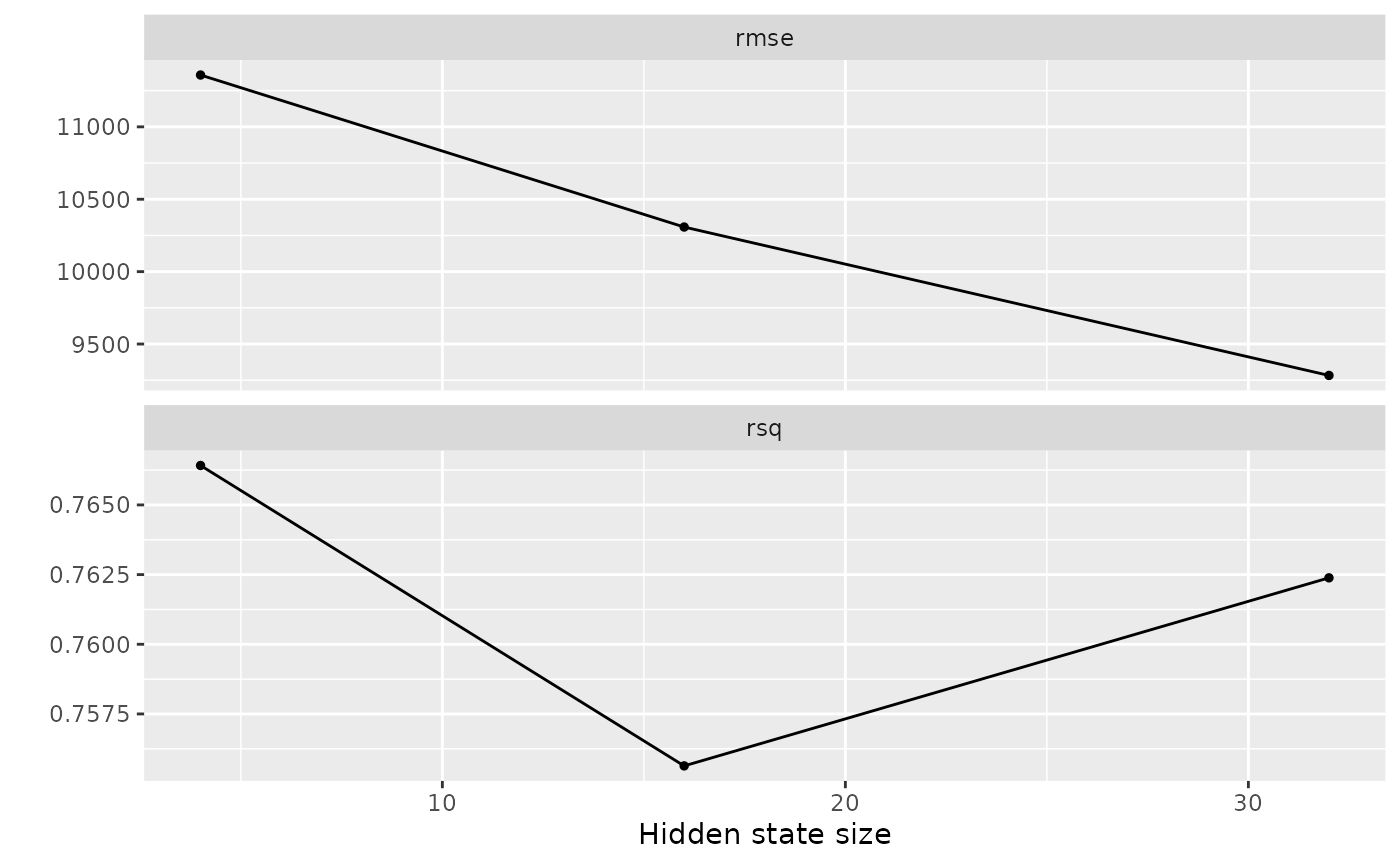
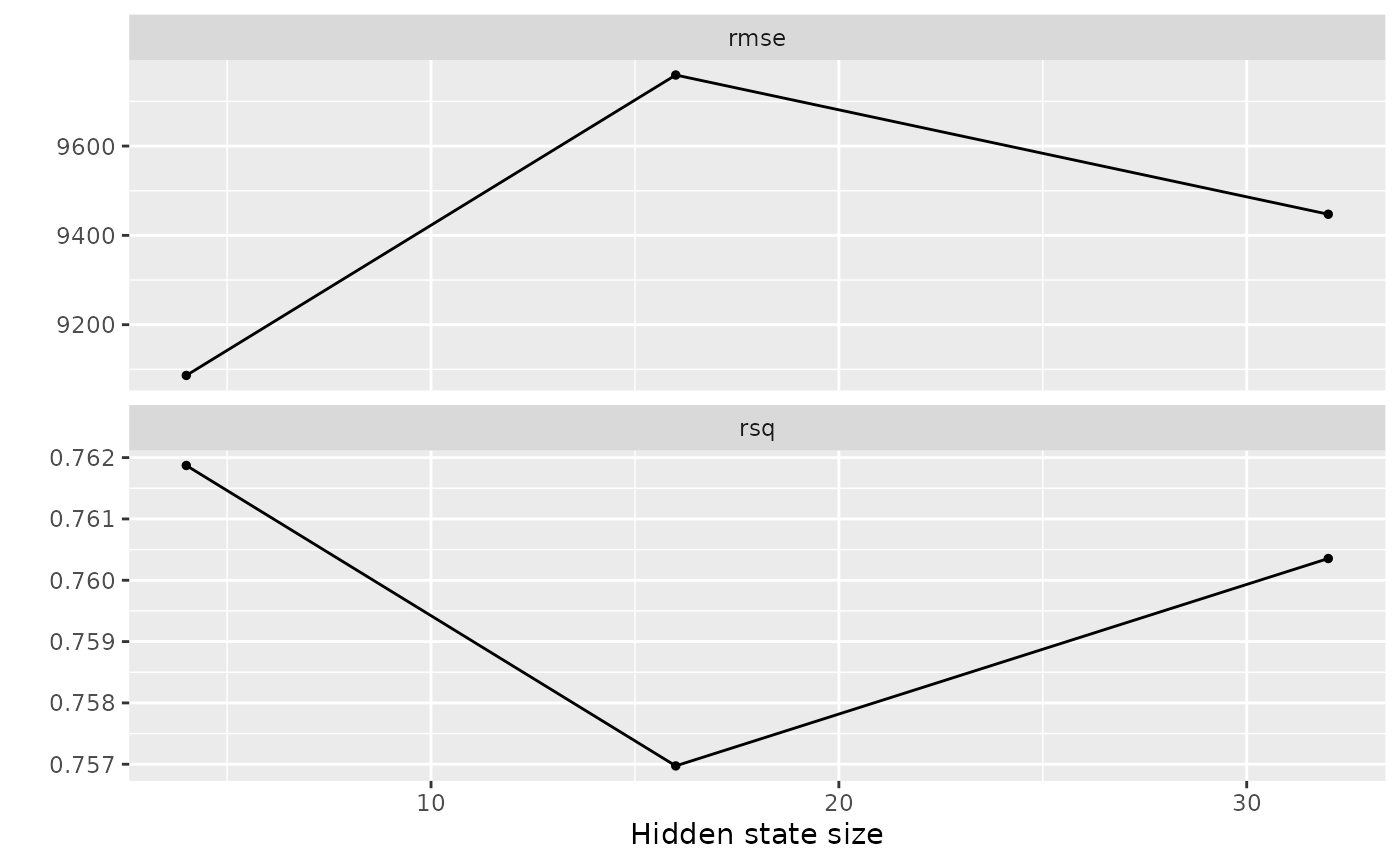
Deploying to gh-pages from @ mlverse/tft@ce8b711458145f856508351297f29762bbba8727 🚀

diff --git a/articles/Getting-started.html b/articles/Getting-started.html
@@ -293,10 +293,10 @@
 <span class="va">results</span> <span class="op">&lt;-</span> <span class="fu">fit_resamples</span><span class="op">(</span><span class="va">model</span>, <span class="va">test_splits</span><span class="op">)</span>
 <span class="fu">collect_metrics</span><span class="op">(</span><span class="va">results</span><span class="op">)</span>
 <span class="co">#&gt; <span style="color: #949494;"># A tibble: 2 × 6</span></span>
-<span class="co">#&gt;   .metric .estimator     mean     n   std_err .config             </span>
-<span class="co">#&gt;   <span style="color: #949494; font-style: italic;">&lt;chr&gt;</span>   <span style="color: #949494; font-style: italic;">&lt;chr&gt;</span>         <span style="color: #949494; font-style: italic;">&lt;dbl&gt;</span> <span style="color: #949494; font-style: italic;">&lt;int&gt;</span>     <span style="color: #949494; font-style: italic;">&lt;dbl&gt;</span> <span style="color: #949494; font-style: italic;">&lt;chr&gt;</span>               </span>
-<span class="co">#&gt; <span style="color: #BCBCBC;">1</span> rmse    standard   <span style="text-decoration: underline;">3</span>579.        4 437.      Preprocessor1_Model1</span>
-<span class="co">#&gt; <span style="color: #BCBCBC;">2</span> rsq     standard      0.985     4   0.004<span style="text-decoration: underline;">76</span> Preprocessor1_Model1</span></code></pre></div>
+<span class="co">#&gt;   .metric .estimator     mean     n  std_err .config             </span>
+<span class="co">#&gt;   <span style="color: #949494; font-style: italic;">&lt;chr&gt;</span>   <span style="color: #949494; font-style: italic;">&lt;chr&gt;</span>         <span style="color: #949494; font-style: italic;">&lt;dbl&gt;</span> <span style="color: #949494; font-style: italic;">&lt;int&gt;</span>    <span style="color: #949494; font-style: italic;">&lt;dbl&gt;</span> <span style="color: #949494; font-style: italic;">&lt;chr&gt;</span>               </span>
+<span class="co">#&gt; <span style="color: #BCBCBC;">1</span> rmse    standard   <span style="text-decoration: underline;">3</span>991.        4 839.     Preprocessor1_Model1</span>
+<span class="co">#&gt; <span style="color: #BCBCBC;">2</span> rsq     standard      0.972     4   0.013<span style="text-decoration: underline;">0</span> Preprocessor1_Model1</span></code></pre></div>
 <p>To obtain predictions for future observations, first we need to load a data.frame that includes known predictors like the <code>IsHoliday</code> variable for all time steps in the future data frame. Then we can call <code>forecast</code> or <code>predict</code> to obtain the predictions for the future data.</p>
 <p>Note that <code>forecast</code> or <code>predict</code> currently can only predict for <code>horizon</code> time steps ahead. And don’t provide a away for doing rolling forecasts.</p>
 <div class="sourceCode" id="cb11"><pre class="downlit sourceCode r">
@@ -310,22 +310,22 @@
 <span class="co">#&gt; <span style="color: #949494;"># A tibble: 16 × 3</span></span>
 <span class="co">#&gt;    .pred_lower  .pred .pred_upper</span>
 <span class="co">#&gt;          <span style="color: #949494; font-style: italic;">&lt;dbl&gt;</span>  <span style="color: #949494; font-style: italic;">&lt;dbl&gt;</span>       <span style="color: #949494; font-style: italic;">&lt;dbl&gt;</span></span>
-<span class="co">#&gt; <span style="color: #BCBCBC;"> 1</span>      <span style="text-decoration: underline;">13</span>292. <span style="text-decoration: underline;">19</span>869.      <span style="text-decoration: underline;">29</span>107.</span>
-<span class="co">#&gt; <span style="color: #BCBCBC;"> 2</span>      <span style="text-decoration: underline;">13</span>252. <span style="text-decoration: underline;">19</span>862.      <span style="text-decoration: underline;">29</span>201.</span>
-<span class="co">#&gt; <span style="color: #BCBCBC;"> 3</span>      <span style="text-decoration: underline;">13</span>245. <span style="text-decoration: underline;">19</span>869.      <span style="text-decoration: underline;">29</span>249.</span>
-<span class="co">#&gt; <span style="color: #BCBCBC;"> 4</span>      <span style="text-decoration: underline;">13</span>246. <span style="text-decoration: underline;">19</span>876.      <span style="text-decoration: underline;">29</span>279.</span>
-<span class="co">#&gt; <span style="color: #BCBCBC;"> 5</span>      <span style="text-decoration: underline;">42</span>882. <span style="text-decoration: underline;">45</span>179.      <span style="text-decoration: underline;">48</span>404.</span>
-<span class="co">#&gt; <span style="color: #BCBCBC;"> 6</span>      <span style="text-decoration: underline;">42</span>869. <span style="text-decoration: underline;">45</span>176.      <span style="text-decoration: underline;">48</span>437.</span>
-<span class="co">#&gt; <span style="color: #BCBCBC;"> 7</span>      <span style="text-decoration: underline;">42</span>866. <span style="text-decoration: underline;">45</span>179.      <span style="text-decoration: underline;">48</span>454.</span>
-<span class="co">#&gt; <span style="color: #BCBCBC;"> 8</span>      <span style="text-decoration: underline;">42</span>866. <span style="text-decoration: underline;">45</span>181.      <span style="text-decoration: underline;">48</span>464.</span>
-<span class="co">#&gt; <span style="color: #BCBCBC;"> 9</span>      <span style="text-decoration: underline;">17</span>377. <span style="text-decoration: underline;">26</span>935.      <span style="text-decoration: underline;">40</span>364.</span>
-<span class="co">#&gt; <span style="color: #BCBCBC;">10</span>      <span style="text-decoration: underline;">17</span>320. <span style="text-decoration: underline;">26</span>925.      <span style="text-decoration: underline;">40</span>500.</span>
-<span class="co">#&gt; <span style="color: #BCBCBC;">11</span>      <span style="text-decoration: underline;">17</span>309. <span style="text-decoration: underline;">26</span>935.      <span style="text-decoration: underline;">40</span>568.</span>
-<span class="co">#&gt; <span style="color: #BCBCBC;">12</span>      <span style="text-decoration: underline;">17</span>310. <span style="text-decoration: underline;">26</span>946.      <span style="text-decoration: underline;">40</span>613.</span>
-<span class="co">#&gt; <span style="color: #BCBCBC;">13</span>      <span style="text-decoration: underline;">61</span>363. <span style="text-decoration: underline;">64</span>608.      <span style="text-decoration: underline;">69</span>168.</span>
-<span class="co">#&gt; <span style="color: #BCBCBC;">14</span>      <span style="text-decoration: underline;">61</span>344. <span style="text-decoration: underline;">64</span>605.      <span style="text-decoration: underline;">69</span>214.</span>
-<span class="co">#&gt; <span style="color: #BCBCBC;">15</span>      <span style="text-decoration: underline;">61</span>340. <span style="text-decoration: underline;">64</span>608.      <span style="text-decoration: underline;">69</span>237.</span>
-<span class="co">#&gt; <span style="color: #BCBCBC;">16</span>      <span style="text-decoration: underline;">61</span>340. <span style="text-decoration: underline;">64</span>612.      <span style="text-decoration: underline;">69</span>252.</span></code></pre></div>
+<span class="co">#&gt; <span style="color: #BCBCBC;"> 1</span>      <span style="text-decoration: underline;">28</span>178. <span style="text-decoration: underline;">25</span>594.      <span style="text-decoration: underline;">16</span>844.</span>
+<span class="co">#&gt; <span style="color: #BCBCBC;"> 2</span>      <span style="text-decoration: underline;">28</span>242. <span style="text-decoration: underline;">25</span>613.      <span style="text-decoration: underline;">16</span>862.</span>
+<span class="co">#&gt; <span style="color: #BCBCBC;"> 3</span>      <span style="text-decoration: underline;">28</span>271. <span style="text-decoration: underline;">25</span>628.      <span style="text-decoration: underline;">16</span>868.</span>
+<span class="co">#&gt; <span style="color: #BCBCBC;"> 4</span>      <span style="text-decoration: underline;">28</span>287. <span style="text-decoration: underline;">25</span>640.      <span style="text-decoration: underline;">16</span>870.</span>
+<span class="co">#&gt; <span style="color: #BCBCBC;"> 5</span>      <span style="text-decoration: underline;">48</span>080. <span style="text-decoration: underline;">47</span>178.      <span style="text-decoration: underline;">44</span>123.</span>
+<span class="co">#&gt; <span style="color: #BCBCBC;"> 6</span>      <span style="text-decoration: underline;">48</span>102. <span style="text-decoration: underline;">47</span>184.      <span style="text-decoration: underline;">44</span>129.</span>
+<span class="co">#&gt; <span style="color: #BCBCBC;"> 7</span>      <span style="text-decoration: underline;">48</span>112. <span style="text-decoration: underline;">47</span>190.      <span style="text-decoration: underline;">44</span>131.</span>
+<span class="co">#&gt; <span style="color: #BCBCBC;"> 8</span>      <span style="text-decoration: underline;">48</span>118. <span style="text-decoration: underline;">47</span>194.      <span style="text-decoration: underline;">44</span>132.</span>
+<span class="co">#&gt; <span style="color: #BCBCBC;"> 9</span>      <span style="text-decoration: underline;">39</span>008. <span style="text-decoration: underline;">35</span>255.      <span style="text-decoration: underline;">22</span>538.</span>
+<span class="co">#&gt; <span style="color: #BCBCBC;">10</span>      <span style="text-decoration: underline;">39</span>103. <span style="text-decoration: underline;">35</span>282.      <span style="text-decoration: underline;">22</span>566.</span>
+<span class="co">#&gt; <span style="color: #BCBCBC;">11</span>      <span style="text-decoration: underline;">39</span>145. <span style="text-decoration: underline;">35</span>305.      <span style="text-decoration: underline;">22</span>574.</span>
+<span class="co">#&gt; <span style="color: #BCBCBC;">12</span>      <span style="text-decoration: underline;">39</span>169. <span style="text-decoration: underline;">35</span>322.      <span style="text-decoration: underline;">22</span>577.</span>
+<span class="co">#&gt; <span style="color: #BCBCBC;">13</span>      <span style="text-decoration: underline;">68</span>707. <span style="text-decoration: underline;">67</span>433.      <span style="text-decoration: underline;">63</span>115.</span>
+<span class="co">#&gt; <span style="color: #BCBCBC;">14</span>      <span style="text-decoration: underline;">68</span>739. <span style="text-decoration: underline;">67</span>442.      <span style="text-decoration: underline;">63</span>125.</span>
+<span class="co">#&gt; <span style="color: #BCBCBC;">15</span>      <span style="text-decoration: underline;">68</span>754. <span style="text-decoration: underline;">67</span>450.      <span style="text-decoration: underline;">63</span>128.</span>
+<span class="co">#&gt; <span style="color: #BCBCBC;">16</span>      <span style="text-decoration: underline;">68</span>762. <span style="text-decoration: underline;">67</span>456.      <span style="text-decoration: underline;">63</span>129.</span></code></pre></div>
 </div>
   </main><aside class="col-md-3"><nav id="toc"><h2>On this page</h2>
     </nav></aside>

diff --git a/reference/tft.html b/reference/tft.html
@@ -136,6 +136,9 @@ point prediction and the thir as the upper bound.</p></dd>
 <dt>verbose</dt>
 <dd><p>Logical value stating if the model should produce status
 outputs, like a progress bar, during training.</p></dd>
+<dt>mode</dt>
+<dd><p>A single character string for the type of model.
+The only possible value for this model is "regression".</p></dd>
 </dl></div>
     <div class="section level2">
     <h2 id="value">Value<a class="anchor" aria-label="anchor" href="#value"></a></h2>
